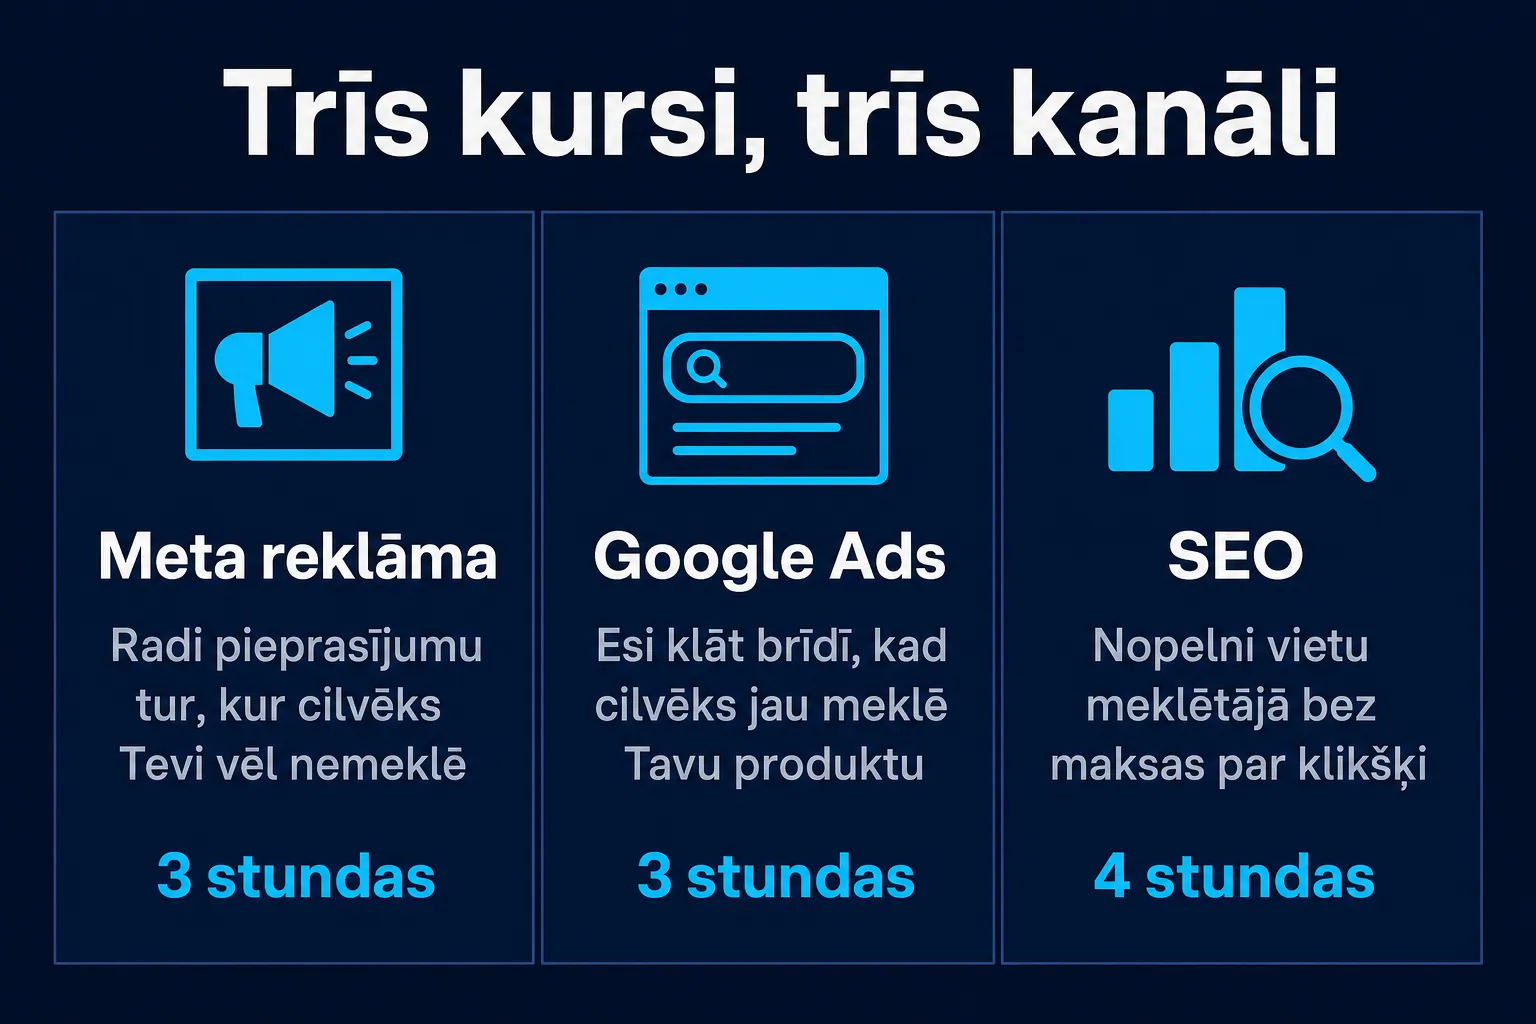
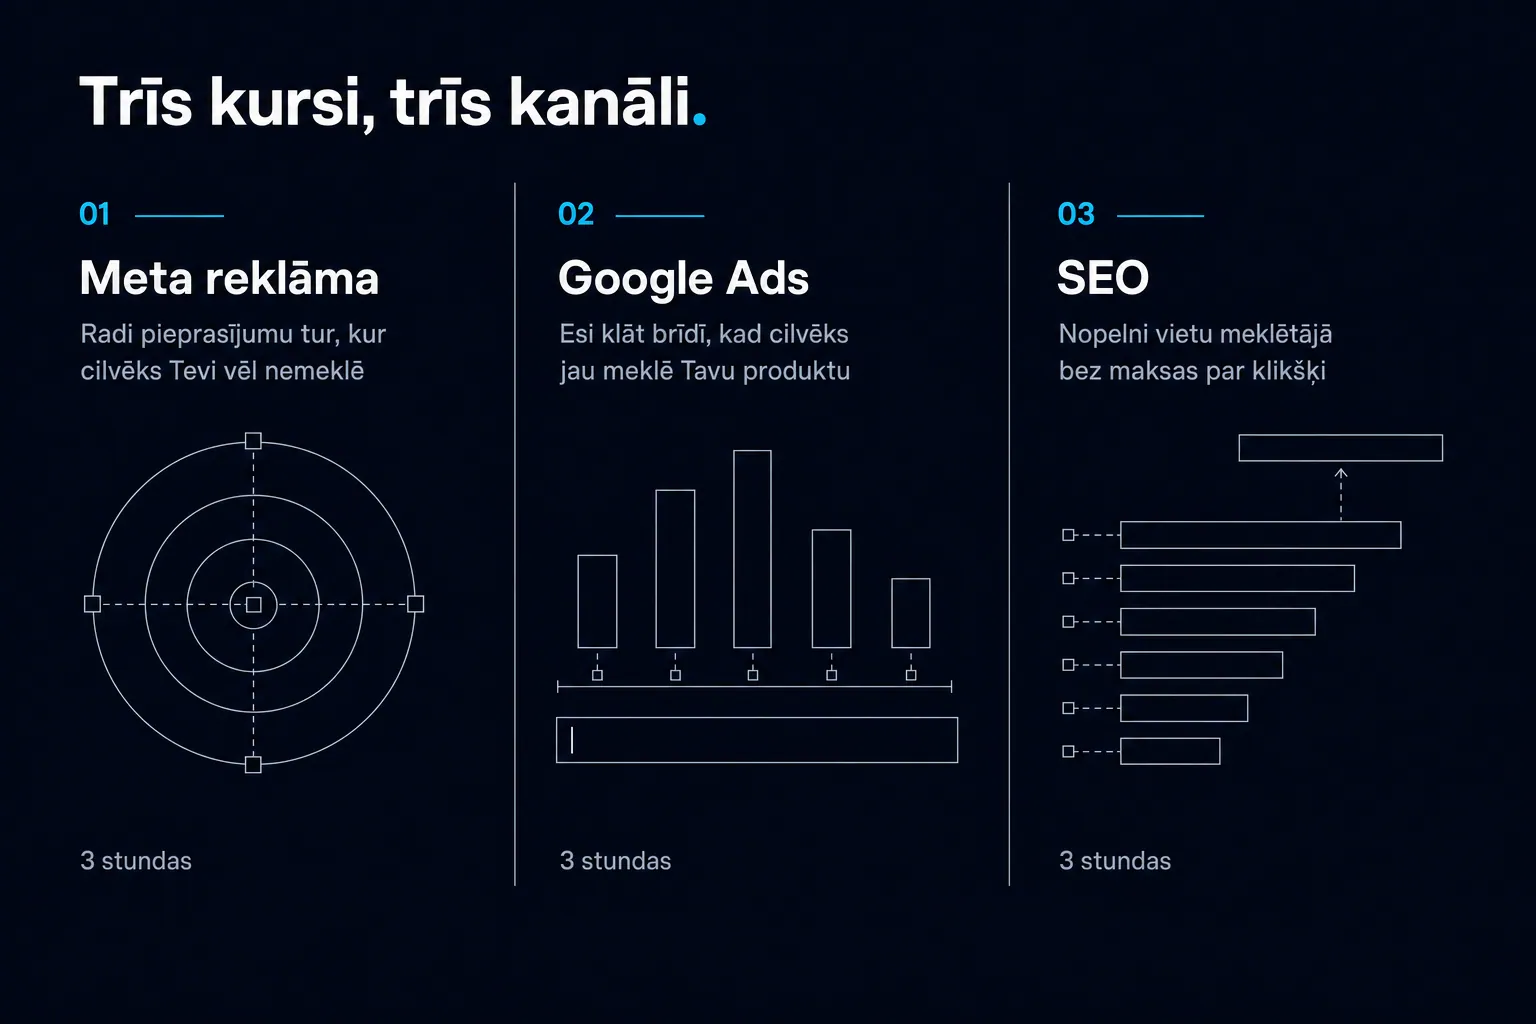
SEO course to 3h, Google Ads replaces TikTok in placements, Realat entry removed
The SEO course is three hours everywhere now: the page, the catalogue tag, the
hub comparison, courseSessions (16:00-19:00) and the Cal.com event, whose
duration, description and four date overrides were all updated. Its mode was
also wrong - Onsite, when the event has always been Google Meet.

TikTok is retired, so it no longer appears where a live course should: the
footer, the homepage courses grid and the services cross-sell now point at the
Google Ads course. The TikTok page itself stays, with its SEO and its CTAs to
consultations.

The Realat portfolio entry had an empty column where a video should be. The
WordPress archive shows it never had one either, so the entry is removed rather
than left looking broken.

diff --git a/src/pages/seo-kursi.html b/src/pages/seo-kursi.html
@@ -1,9 +1,9 @@
 ---
 layout: page.njk
 title: "SEO Kursi | Mārketinga Skola"
-description: "SEO kurss tiešsaistē mazā grupā: atslēgvārdi, saturs, tehniskais SEO un analītika. 4 stundas, 150 € + PVN."
+description: "SEO kurss tiešsaistē mazā grupā: atslēgvārdi, saturs, tehniskais SEO un analītika. 3 stundas, 150 € + PVN."
 permalink: "/seo-kursi/"
-course: { name: "SEO kurss", level: "Iesācējiem", hours: 4, price: 150, vatIncluded: false, mode: "Onsite", instructor: "Matīss Valters Seipulāns" }
+course: { name: "SEO kurss", level: "Iesācējiem", hours: 3, price: 150, vatIncluded: false, mode: "Online", instructor: "Matīss Valters Seipulāns" }
 crumb: { label: "Kursi", url: "/digitala-marketinga-kursi/" }
 ---
 <section class="page-hero">
@@ -12,8 +12,9 @@ crumb: { label: "Kursi", url: "/digitala-marketinga-kursi/" }
     <h1>SEO kursi</h1>
     <p class="sub">Apgūsti meklētājprogrammu pamatus — palielini mājaslapas redzamību Google un piesaisti vairāk organisko apmeklētāju.</p>
     <div class="chips">
+      <span>Tiešsaistē</span>
       <span>Iesācējiem</span>
-      <span>4 stundas</span>
+      <span>3 stundas</span>
       <span>Notiek katru mēnesi</span>
       <span>150 € + PVN</span>
     </div>
@@ -87,7 +88,7 @@ crumb: { label: "Kursi", url: "/digitala-marketinga-kursi/" }
           <p class="price">150 € <small>+ PVN</small></p>
           <ul class="course-facts">
             <li><span>Līmenis</span><span>Iesācējiem</span></li>
-            <li><span>Ilgums</span><span>4 stundas</span></li>
+            <li><span>Ilgums</span><span>3 stundas</span></li>
             <li><span>Norise</span><span>Katru mēnesi, grupā no {{ courseSessions.policy.minSeats }}</span></li>
             <li><span>Priekšzināšanas</span><span>Izpratne par meklētājprogrammām</span></li>
             <li><span>Metodes</span><span>Aktīvās mācības, diskusijas, lekcija, piemēru izpēte</span></li>

diff --git a/src/pages/portfolio.html b/src/pages/portfolio.html
@@ -208,18 +208,6 @@ permalink: "/portfolio/"
     </div>
     <div class="row cols-2 top">
       <div class="col">
-        <h3>“Realat” apmācības — Meta Reklāma NĪ Aģentiem</h3>
-        <p>Šajās apmācībās uzzināsi:</p>
-        <ul class="tick-list">
-          <li>Kāpēc Nekustamo Īpašumu aģentiem vērts apsvērt Meta reklāmas</li>
-          <li>Nekustamo Īpašumu biroju reklāmas piemēri / gadījumu analīze</li>
-          <li>Efektīvu reklāmas tekstu un kreatīvu sastādīšana</li>
-        </ul>
-      </div>
-      <div class="col"></div>
-    </div>
-    <div class="row cols-2 top">
-      <div class="col">
         <h3>“LSUA” apmācības — Piesaisti klientus ar Facebook Reklāmu</h3>
         <p>Šajā vebinārā uzzināsi:</p>
         <ul class="tick-list">

diff --git a/src/pages/pakalpojumi.html b/src/pages/pakalpojumi.html
@@ -70,7 +70,7 @@ permalink: "/pakalpojumi/"
         <figure class="cell-media"><img src="/img/gen/kursi-programmas-motivs.webp" alt="Abstrakta ilustrācija ar pakāpeniski augošām joslām — kursu programma no pamatiem līdz stratēģijai" loading="lazy"></figure>
         <span class="cell-idx">06</span>
         <h3>Kursi un apmācības</h3>
-        <p>Vēlies apgūt digitālo mārketingu pats vai apmācīt komandu? Praktiski Meta, SEO un TikTok kursi no praktiķiem.</p>
+        <p>Vēlies apgūt digitālo mārketingu pats vai apmācīt komandu? Praktiski Meta, Google Ads un SEO kursi no praktiķiem.</p>
         <a class="arrow-link" href="/digitala-marketinga-kursi/">Apskatīt kursus</a>
       </div>
     </div>

diff --git a/src/pages/digitala-marketinga-kursi.html b/src/pages/digitala-marketinga-kursi.html
@@ -33,7 +33,7 @@ permalink: "/digitala-marketinga-kursi/"
     {% infographic { id: "info-kursi-tris-kanali", class: "infographic--page", title: "Trīs kursi, trīs kanāli", items: [
       { label: "Meta reklāma — 3 stundas", text: "Radi pieprasījumu tur, kur cilvēks Tevi vēl nemeklē." },
       { label: "Google Ads — 3 stundas", text: "Esi klāt brīdī, kad cilvēks jau meklē Tavu produktu." },
-      { label: "SEO — 4 stundas", text: "Nopelni vietu meklētājā bez maksas par klikšķi." }
+      { label: "SEO — 3 stundas", text: "Nopelni vietu meklētājā bez maksas par klikšķi." }
     ] } %}
     {% set catalogExclude = "" %}
     {% include "course-catalog.njk" %}

diff --git a/src/pages/index.html b/src/pages/index.html
@@ -170,9 +170,9 @@ image: "/img/2025/03/Title-1.png"
       </div>
       <div class="cell">
         <span class="cell-idx">03</span>
-        <h3>TikTok reklāmas kursi</h3>
-        <p>Apgūsti strauji augošāko reklāmas platformu un sasniedz auditoriju, kuru konkurenti vēl nav pamanījuši.</p>
-        <a class="arrow-link" href="/tiktok-kursi/">Par kursu</a>
+        <h3>Google Ads kurss</h3>
+        <p>Esi klāt brīdī, kad cilvēks jau meklē Tavu produktu — meklēšanas kampaņas, atslēgvārdi un konversiju uzskaite.</p>
+        <a class="arrow-link" href="/google-ads-kurss/">Par kursu</a>
       </div>
     </div>
   </div>
